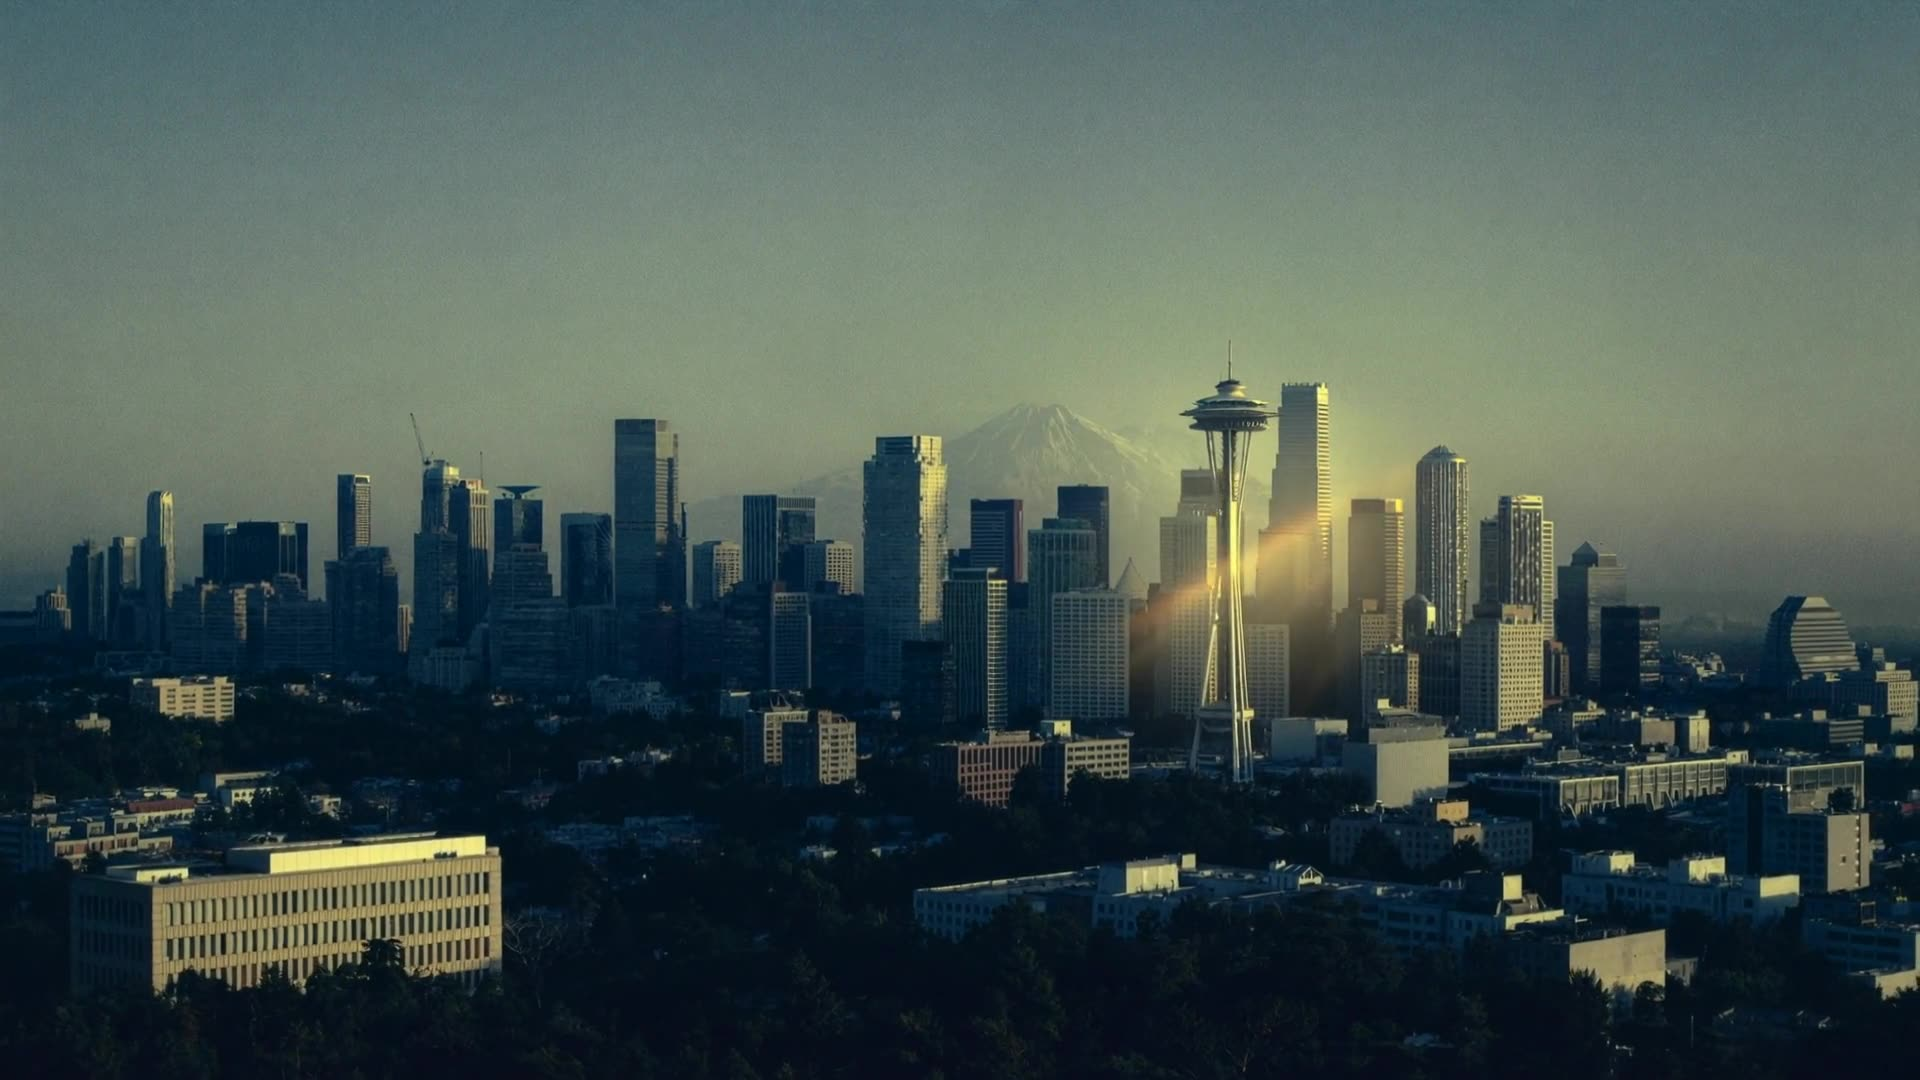
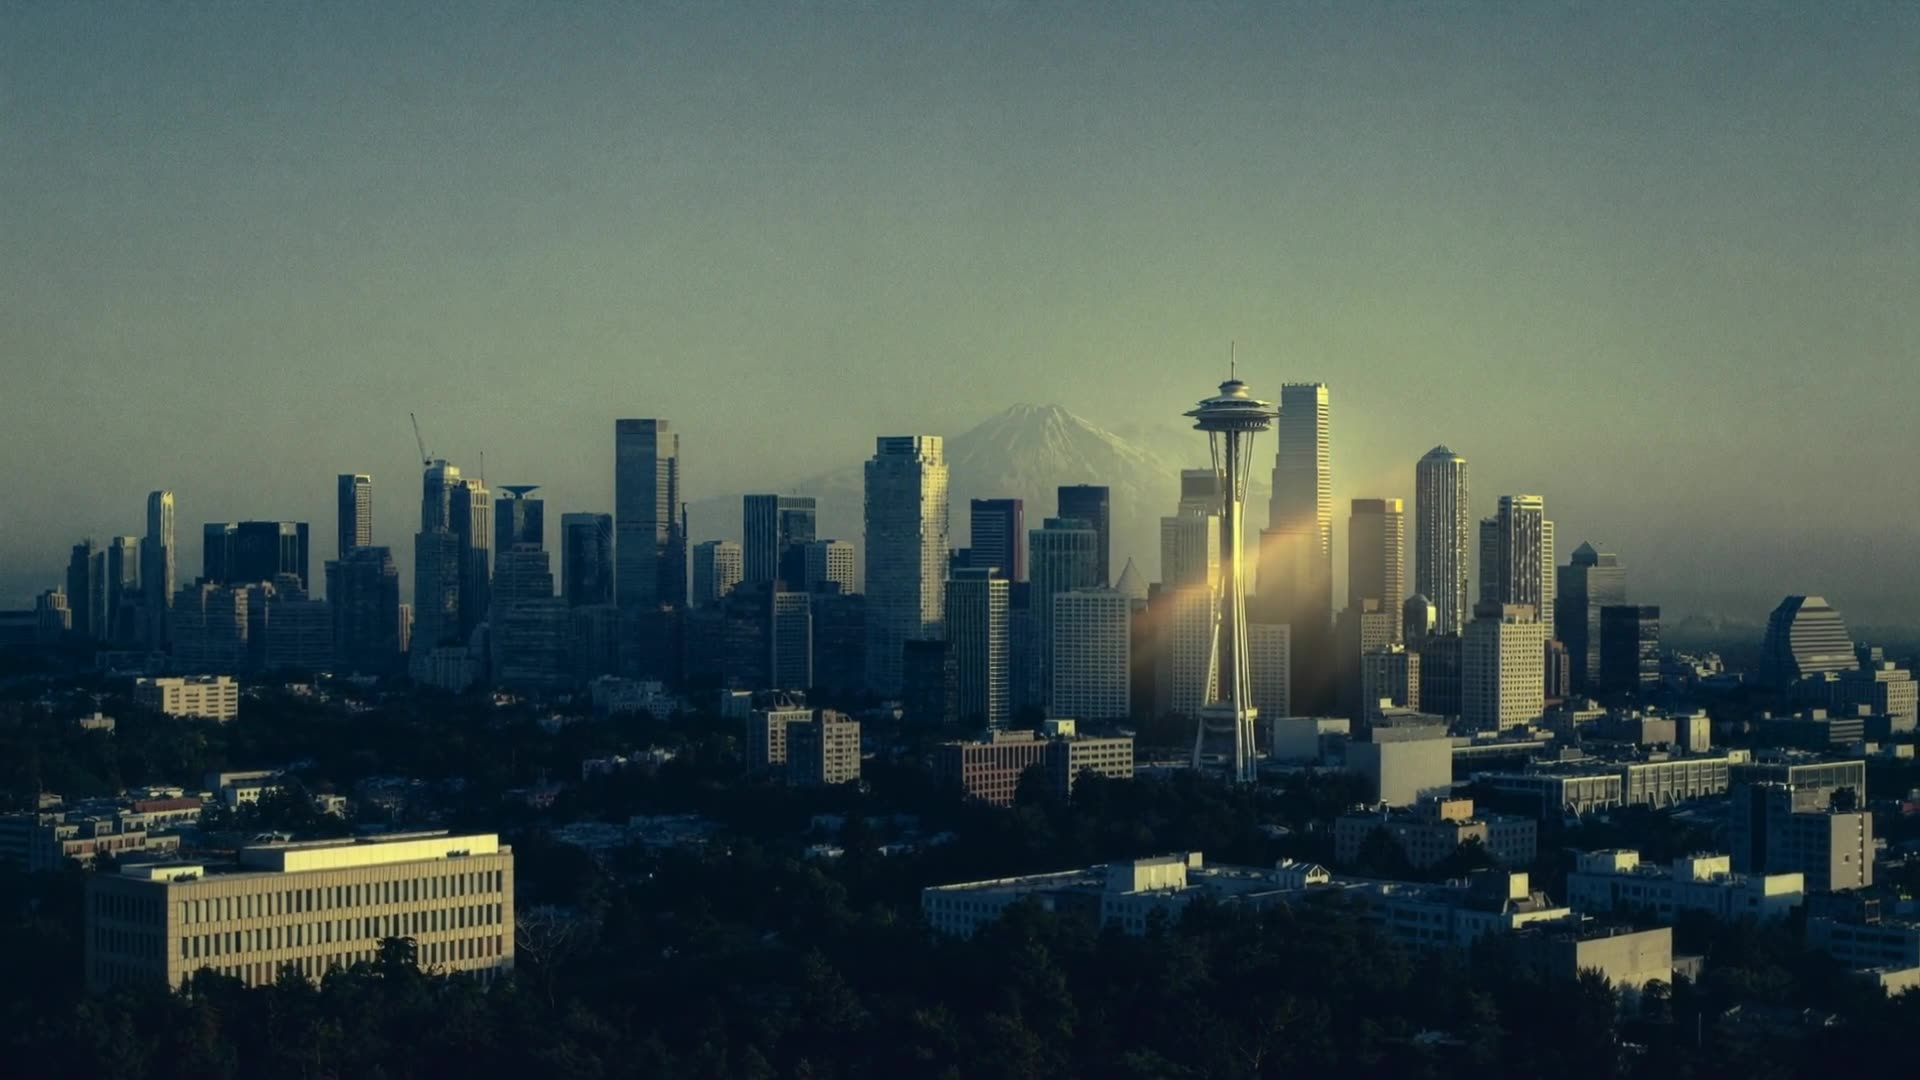
site: restore 53s hero; contact section gets its own film under a blue veil
Top hero returns to the full 18-scene mixtape. The contact band now plays
a 9s loop of the three unused team scenes (conference networking, on-site
systems check, jet boarding) behind a 75% brand-blue wash - white text
stays primary, the film breathes through. Lazy-loaded, observer-played.

diff --git a/docs/index.html b/docs/index.html
@@ -157,6 +157,12 @@
   .cinema { position:relative; overflow:hidden; height:min(62vh,560px); min-height:340px; border-top:1px solid var(--border); border-bottom:1px solid var(--border); }
   .cinema video { position:absolute; inset:0; width:100%; height:100%; object-fit:cover; object-position:50% 38%; }
   .cinema .cinema-wash { position:absolute; inset:0; background:rgba(255,255,255,.22); }
+  .final { position:relative; overflow:hidden; }
+  .final > .wrap { position:relative; z-index:2; }
+  .contact-video { position:absolute; inset:0; z-index:0; }
+  .contact-video video { width:100%; height:100%; object-fit:cover; object-position:50% 38%; }
+  .contact-video .contact-wash { position:absolute; inset:0; background:rgba(29,78,216,.75); }
+  @media (prefers-reduced-motion:reduce){ .contact-video video { display:none; } }
   @media (prefers-reduced-motion:reduce){ .cinema video { display:none; } .cinema { background:url("assets/hero2-poster.jpg") center/cover; } }
   .hero-grid { display:grid; grid-template-columns:minmax(0,1.05fr); gap:0; align-items:center; max-width:660px; }
   h1 { font-size:clamp(38px, 4.6vw, 60px); font-weight:300; letter-spacing:-.4px; line-height:1.12; color:var(--text); }
@@ -745,6 +751,12 @@
 
 <!-- ================= FINAL CTA ================= -->
 <section class="final" id="contact">
+  <div class="contact-video" aria-hidden="true">
+    <video id="heroVid3" muted loop playsinline preload="none" poster="assets/contact-poster.jpg">
+      <source src="assets/contact-web.mp4" type="video/mp4">
+    </video>
+    <div class="contact-wash"></div>
+  </div>
   <div class="wrap">
     <p class="kicker reveal">Start the conversation</p>
     <h2 class="reveal">Show us where <strong>the hours go.</strong></h2>
@@ -875,6 +887,6 @@
   document.querySelectorAll('.count').forEach(function (el) { cio.observe(el); });
 })();
 </script>
-<script>(function(){var small=Math.min(screen.width,screen.height)<=820||(navigator.connection&&navigator.connection.saveData);function prep(id,mob){var v=document.getElementById(id);if(!v)return null;if(small){v.querySelector("source").src=mob;v.load();}return v;}var v1=prep("heroVid","assets/hero-mobile.mp4");if(v1){var p=v1.play();if(p&&p.catch)p.catch(function(){});}var v2=prep("heroVid2","assets/hero2-mobile.mp4");if(v2&&"IntersectionObserver"in window){new IntersectionObserver(function(es){es.forEach(function(e){if(e.isIntersecting){if(!v2.dataset.l){v2.load();v2.dataset.l=1;}var q=v2.play();if(q&&q.catch)q.catch(function(){});}else{v2.pause();}});},{rootMargin:"200px"}).observe(v2);}else if(v2){v2.load();var r=v2.play();if(r&&r.catch)r.catch(function(){});}})();</script>
+<script>(function(){var small=Math.min(screen.width,screen.height)<=820||(navigator.connection&&navigator.connection.saveData);function prep(id,mob){var v=document.getElementById(id);if(!v)return null;if(small){v.querySelector("source").src=mob;v.load();}return v;}var v1=prep("heroVid","assets/hero-mobile.mp4");if(v1){var p=v1.play();if(p&&p.catch)p.catch(function(){});}var v2=prep("heroVid2","assets/hero2-mobile.mp4");if(v2&&"IntersectionObserver"in window){new IntersectionObserver(function(es){es.forEach(function(e){if(e.isIntersecting){if(!v2.dataset.l){v2.load();v2.dataset.l=1;}var q=v2.play();if(q&&q.catch)q.catch(function(){});}else{v2.pause();}});},{rootMargin:"200px"}).observe(v2);}else if(v2){v2.load();var r=v2.play();if(r&&r.catch)r.catch(function(){});}var v3=prep("heroVid3","assets/contact-mobile.mp4");if(v3&&"IntersectionObserver"in window){new IntersectionObserver(function(es){es.forEach(function(e){if(e.isIntersecting){if(!v3.dataset.l){v3.load();v3.dataset.l=1;}var q=v3.play();if(q&&q.catch)q.catch(function(){});}else{v3.pause();}});},{rootMargin:"200px"}).observe(v3);}else if(v3){v3.load();var r=v3.play();if(r&&r.catch)r.catch(function(){});}})();</script>
 </body>
 </html>